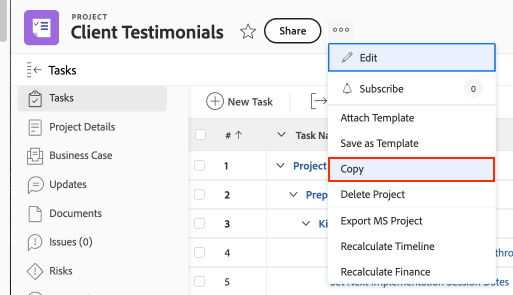
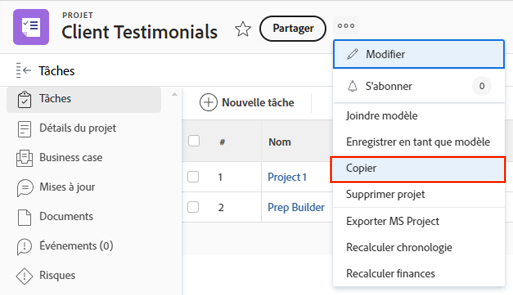
Updated by task 'AUTO_HANDOFF_1728919996263'  Changes for core/source commit https://git.corp.adobe.com/AdobeDocs/workfront-learn.en/commit/864198f778343634d28b304a0154c7041468faec

diff --git a/help/manage-work/manage-projects/copy-an-existing-project.md b/help/manage-work/manage-projects/copy-an-existing-project.md
@@ -12,15 +12,15 @@ recommendations: noDisplay,noCatalog
 jira: KT-10155
 exl-id: 90a87fef-70e9-42fc-ac55-415980ef32c7
 source-git-commit: 434069d95777eef7739917d8761c03a8e64b8433
-workflow-type: tm+mt
+workflow-type: ht
 source-wordcount: '155'
-ht-degree: 89%
+ht-degree: 100%
 
 ---
 
 # Copier un projet existant
 
-Parfois, au lieu d’utiliser un modèle pour créer un projet, vous avez simplement besoin de copier un projet pour une autre utilisation ponctuelle. Pour ce faire, vous devez disposer d’une licence Standard, avec les droits d’édition et de création d’accès aux projets.
+Parfois, au lieu d’utiliser un modèle pour créer un projet, vous avez simplement besoin de copier un projet pour une autre utilisation ponctuelle. Pour ce faire, vous devez disposer d’une licence standard, avec l’accès Modifier et Créer aux projets.
 
 Accédez au projet que vous souhaitez copier et cliquez sur le menu à 3 points situé à côté du nom du projet. Sélectionnez ensuite Copier.
 

diff --git a/help/manage-work/create-and-manage-project-templates/share-a-project-template.md b/help/manage-work/create-and-manage-project-templates/share-a-project-template.md
@@ -1,6 +1,6 @@
 ---
 title: Partager un modèle de projet
-description: Découvrez comment partager un modèle de projet et comment partager des projets créés à partir d’un modèle.
+description: Découvrez comment partager un modèle de projet et des projets créés à partir d’un modèle.
 activity: use
 feature: Work Management
 thumbnail: 335211.jpeg
@@ -13,9 +13,9 @@ jira: KT-8951
 exl-id: 9179fbc8-1000-4215-b2c3-de617c7f1d80
 doc-type: video
 source-git-commit: 434069d95777eef7739917d8761c03a8e64b8433
-workflow-type: tm+mt
+workflow-type: ht
 source-wordcount: '77'
-ht-degree: 79%
+ht-degree: 100%
 
 ---
 

diff --git a/help/manage-work/create-and-manage-project-templates/create-a-project-directly-from-a-template.md b/help/manage-work/create-and-manage-project-templates/create-a-project-directly-from-a-template.md
@@ -12,7 +12,7 @@ recommendations: noDisplay,noCatalog
 jira: KT-10156
 exl-id: 1f44eb26-98bf-4723-b162-27a4f8cb8177
 source-git-commit: 434069d95777eef7739917d8761c03a8e64b8433
-workflow-type: tm+mt
+workflow-type: ht
 source-wordcount: '197'
 ht-degree: 100%
 

diff --git a/help/manage-work/create-and-manage-project-templates/deactivate-a-project-template.md b/help/manage-work/create-and-manage-project-templates/deactivate-a-project-template.md
@@ -14,7 +14,7 @@ jira: KT-14749
 doc-type: video
 exl-id: ad9b9e1e-3d8c-4a0f-8f73-e204047485a6
 source-git-commit: 434069d95777eef7739917d8761c03a8e64b8433
-workflow-type: tm+mt
+workflow-type: ht
 source-wordcount: '125'
 ht-degree: 100%
 

diff --git a/help/manage-work/create-and-manage-project-templates/create-a-project-template.md b/help/manage-work/create-and-manage-project-templates/create-a-project-template.md
@@ -14,7 +14,7 @@ jira: KT-8950
 exl-id: 1f706148-c001-42a8-a675-48e91d445f0b
 doc-type: video
 source-git-commit: 434069d95777eef7739917d8761c03a8e64b8433
-workflow-type: tm+mt
+workflow-type: ht
 source-wordcount: '377'
 ht-degree: 100%
 

diff --git a/help/manage-work/create-and-manage-project-templates/edit-the-project-team-in-a-project-template.md b/help/manage-work/create-and-manage-project-templates/edit-the-project-team-in-a-project-template.md
@@ -14,7 +14,7 @@ jira: KT-14755
 doc-type: video
 exl-id: 9a92a0a5-5ea3-428d-a81a-2d217e6e3d59
 source-git-commit: 434069d95777eef7739917d8761c03a8e64b8433
-workflow-type: tm+mt
+workflow-type: ht
 source-wordcount: '84'
 ht-degree: 100%
 
